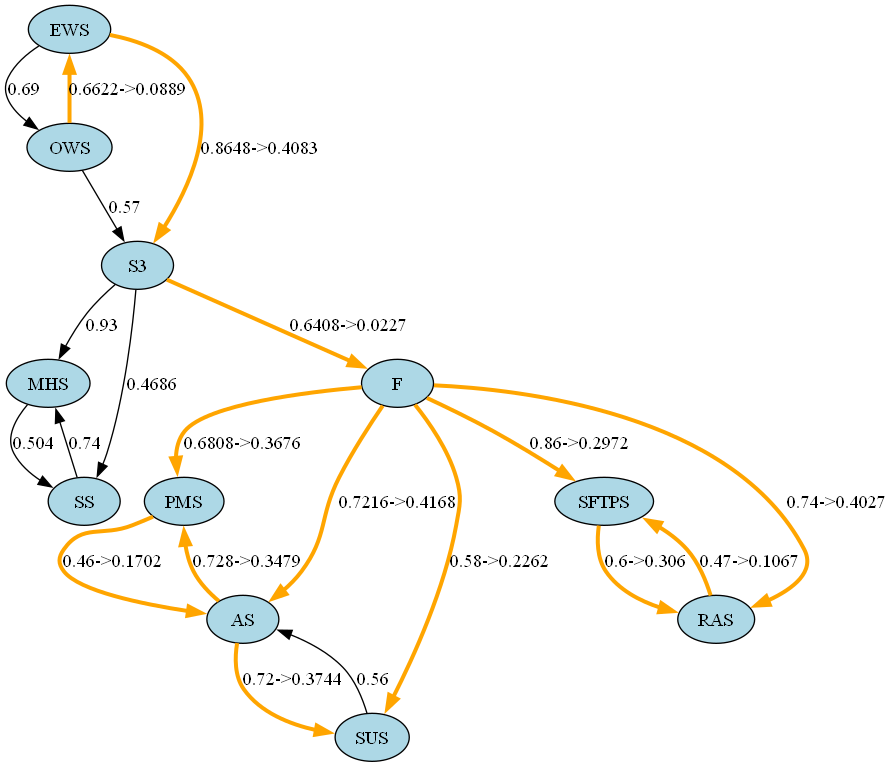
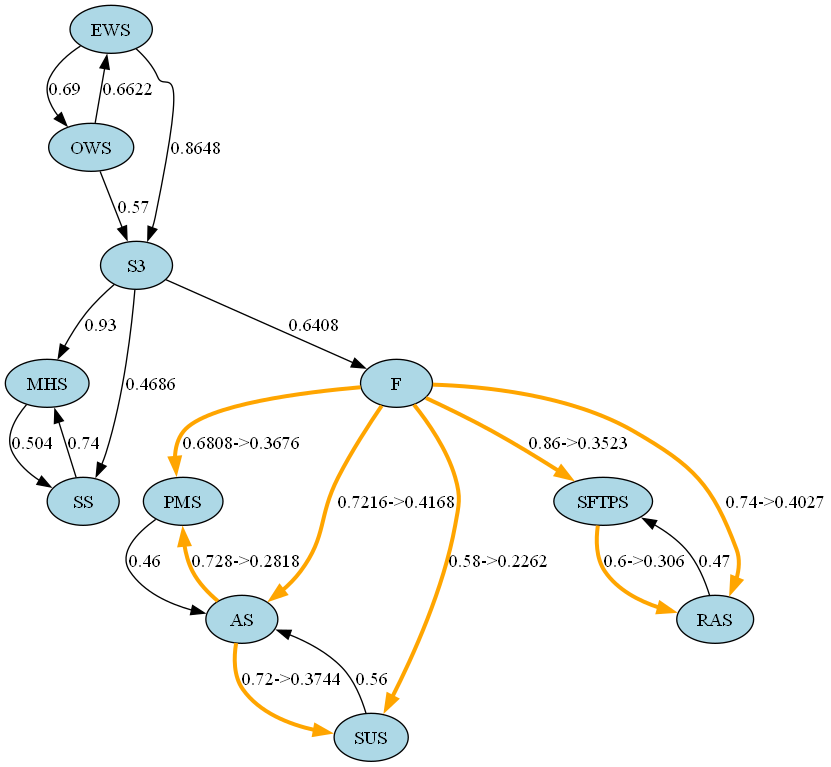
Update Correzioni

diff --git a/utils.py b/utils.py
@@ -1,6 +1,5 @@
 import networkx as nx 
-from networkx.drawing.nx_pydot import to_pydot, write_dot
-import matplotlib.pyplot as plt
+from networkx.drawing.nx_pydot import to_pydot
 
 class Utils:
     # Restituisce tutti i path che hanno origine in 'source'
@@ -89,18 +88,15 @@ class Utils:
         max_risk_path = Utils.get_maximum_risk_path(graph, source_list)
 
         new_graph = graph.copy()
+        new_graph_2 = graph.copy()
 
         # Viene posto a True in caso venga applicata almeno una contromisura
         modified = False
-
-        # print("Contromisure trovate:")
 
         for i in range(len(max_risk_path)-1):
             node = max_risk_path[i]
             successor = max_risk_path[i+1]
             found, countermeasure = Utils._search_countermeasure(node, successor, countermeasures)
-
-            # print(countermeasure)
 
             # Se non si trova una contromisura si passa all'arco successivo
             if not found:
@@ -119,8 +115,9 @@ class Utils:
             
             # Il rischio non è cambiato, quindi si salta all'arco successivo senza applicare nulla
             if previous_risk == changed_risk:
+                new_graph = new_graph_2.copy() # Riga aggiunta
                 continue
-        
+            
             # Modifica budget
             new_budget = budget - countermeasure[0]
             if new_budget >= 0:
@@ -130,20 +127,18 @@ class Utils:
 
             # Se il grafo è cambiato, allora lo si aggiorna effettivamente
             # In questo modo ci si assicura che le modifiche al grafo siano significative e al prezzo minore possibile
-            graph = new_graph
+            graph = new_graph.copy() # Riga modificata
         
             # Modifica lista contromisure
             countermeasures.remove(countermeasure)
             
             modified = True
 
-        # print()
-
         return modified, graph, countermeasures, budget
 
     # Restituice costo ed effcicacia della contromisura (i nodi sono esclusi perché già noti)
     @staticmethod
-    def _search_countermeasure(node_1: str, node_2: str, countermeasures: list) -> tuple[bool, int, float]:
+    def _search_countermeasure(node_1: str, node_2: str, countermeasures: list) -> tuple[bool, int]:
         
         found_list = list()
 

diff --git a/main.py b/main.py
@@ -30,7 +30,6 @@ def main():
     graph.add_edge('RAS', 'SFTPS', weight = 0.47)
 
 
-
     # Nodi più esterni -> impatto minore
 
     graph.nodes['OWS']['impact'] = 1
@@ -72,8 +71,24 @@ def main():
                        [2358, 0.29,'AS','SUS','I'],
                        [358, 0.48,'AS','SUS','S'],
                        [857, 0.63,'PMS','AS','D'], 
-                       [3260, 0.39,'RAS','SFTPS','E'],
-                       [2260, 0.49,'SFTPS','RAS','T']]
+                       [3260, 0.19,'RAS','SFTPS','E'],
+                       [2260, 0.49,'SFTPS','RAS','T'],
+
+                       [711, 0.24,'F','AS','D'], 
+                       [631, 0.17,'F','RAS','E'],
+                       [3631, 0.17,'F','RAS','S'],
+                       [1271, 0.21,'F','RAS','I'], 
+                       [751, 0.46,'F','PMS','I'],
+                       [692, 0.61,'F','SUS','D'], 
+                       [541, 0.36,'F','SFTPS','S'],
+                       [1891, 0.46,'F','SFTPS','I'],
+                       [1541, 0.41,'AS','PMS','E'],
+                       [621, 0.19,'AS','PMS','T'],
+                       [2351, 0.29,'AS','SUS','I'],
+                       [351, 0.48,'AS','SUS','S'],
+                       [851, 0.63,'PMS','AS','D'], 
+                       [3321, 0.21,'RAS','SFTPS','E'],
+                       [2261, 0.49,'SFTPS','RAS','T']]
     
     """
     # Caso in cui si raggiunge un rischio accettabile al primo SSG
@@ -155,8 +170,6 @@ def main():
         print(f"Budget Iniziale: {budget_defender}")
 
         done = False
-
-        # print(f"\nRischio iniziale: {ut.get_graph_risk(graph,source_list)} \n")
 
         # Contatore Iterazioni Gioco
         i = 1

diff --git a/ssg.py b/ssg.py
@@ -2,7 +2,7 @@ import gymnasium as gym
 import networkx as nx
 from utils import Utils as ut
 import os
-# 
+
 class StackelbergSecurityGameEnv(gym.Env):
     def __init__(self, graph: nx.DiGraph, source_list: list, budget_defender : int, countermeasures: list, risk_threshold:int):
 
